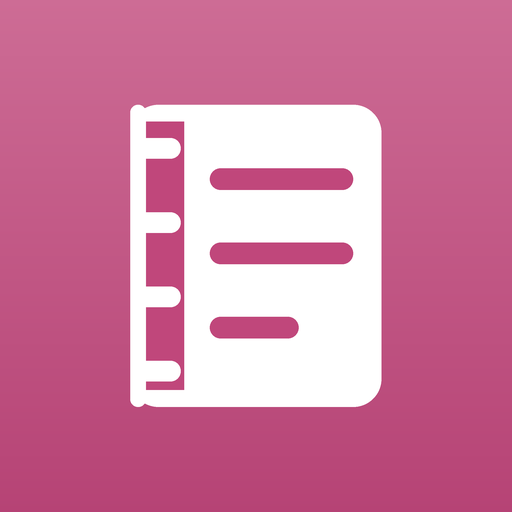
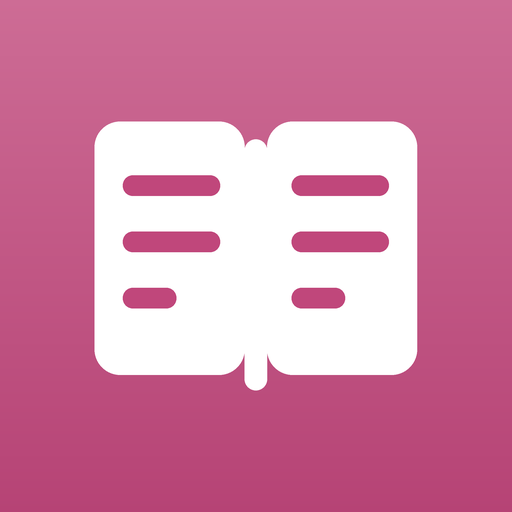
상담노트 아이콘 — 링노트에서 펼친 노트로 (후보 2번)

Changed region(s): [[0.1562, 0.1875, 0.8438, 0.8125]]

diff --git a/docs/sw.js b/docs/sw.js
@@ -1,5 +1,5 @@
 /* 노트앱 서비스워커 — 앱 껍데기를 통째로 캐시한다. 판이 바뀌면 V 가 바뀌어 옛 캐시는 지운다 */
-const V="notedesk-5e3e6ff2b8";
+const V="notedesk-ff6cfebc0a";
 const SHELL=["./", "./index.html", "./vendor/jszip.min.js", "./sangdam/icon-180.png", "./sangdam/icon-192.png", "./gijil/", "./gijil/index.html", "./gijil/manifest.webmanifest", "./gijil/icon-180.png", "./gijil/icon-192.png", "./gijil/icon-512.png", "./josa/", "./josa/index.html", "./josa/manifest.webmanifest", "./josa/icon-180.png", "./josa/icon-192.png", "./josa/icon-512.png", "./sangdam/", "./sangdam/index.html", "./sangdam/manifest.webmanifest", "./sangdam/icon-512.png"];
 self.addEventListener("install",e=>{
   e.waitUntil(caches.open(V).then(c=>c.addAll(SHELL.map(u=>new Request(u,{cache:"reload"})))).then(()=>self.skipWaiting()));

diff --git a/빌드.py b/빌드.py
@@ -203,22 +203,16 @@ def _mark_josa(d, S, col, bg):
 
 
 def _mark_sangdam(d, S, col, bg):
-    """상담 = 노트. 왼쪽에 링, 안에 적은 줄."""
-    x0, x1 = S * .255, S * .745
-    y0, y1 = S * .205, S * .795
-    r = int(S * .055)
-    d.rounded_rectangle([x0, y0, x1, y1], radius=r, fill=col)
-    d.rectangle([x0, y0 + r * .6, x0 + S * .105, y1 - r * .6], fill=bg)   # 링 자리
-    d.rounded_rectangle([x0, y0, x0 + S * .030, y1], radius=int(S * .015), fill=col)
-    for i in range(4):                                                     # 링 넷
-        cy = y0 + S * .085 + i * S * .145
-        d.rounded_rectangle([x0 + S * .012, cy - S * .020, x0 + S * .098, cy + S * .020],
-                            radius=int(S * .020), fill=col)
-    for i, frac in enumerate((1.0, 1.0, .62)):                             # 적은 줄
-        y = y0 + S * .145 + i * S * .145
-        xs = x0 + S * .155
-        d.rounded_rectangle([xs, y - S * .021, xs + (x1 - xs - S * .055) * frac, y + S * .021],
-                            radius=int(S * .021), fill=bg)
+    """상담 = 펼친 노트. 두 쪽이 펼쳐지고 가운데가 접힌 자리."""
+    r = int(S * .050)
+    d.rounded_rectangle([S * .185, S * .265, S * .478, S * .760], radius=r, fill=col)
+    d.rounded_rectangle([S * .522, S * .265, S * .815, S * .760], radius=r, fill=col)
+    d.rounded_rectangle([S * .478, S * .300, S * .522, S * .790], radius=int(S * .022), fill=col)
+    for x0, x1 in ((.240, .430), (.570, .760)):                            # 양쪽 쪽에 적은 줄
+        for i, frac in enumerate((1.0, 1.0, .55)):
+            y = S * (.370 + i * .110)
+            d.rounded_rectangle([S * x0, y, S * x0 + S * (x1 - x0) * frac, y + S * .040],
+                                radius=int(S * .020), fill=bg)
 
 
 MARK = {"gijil": _mark_gijil, "josa": _mark_josa, "sangdam": _mark_sangdam}
